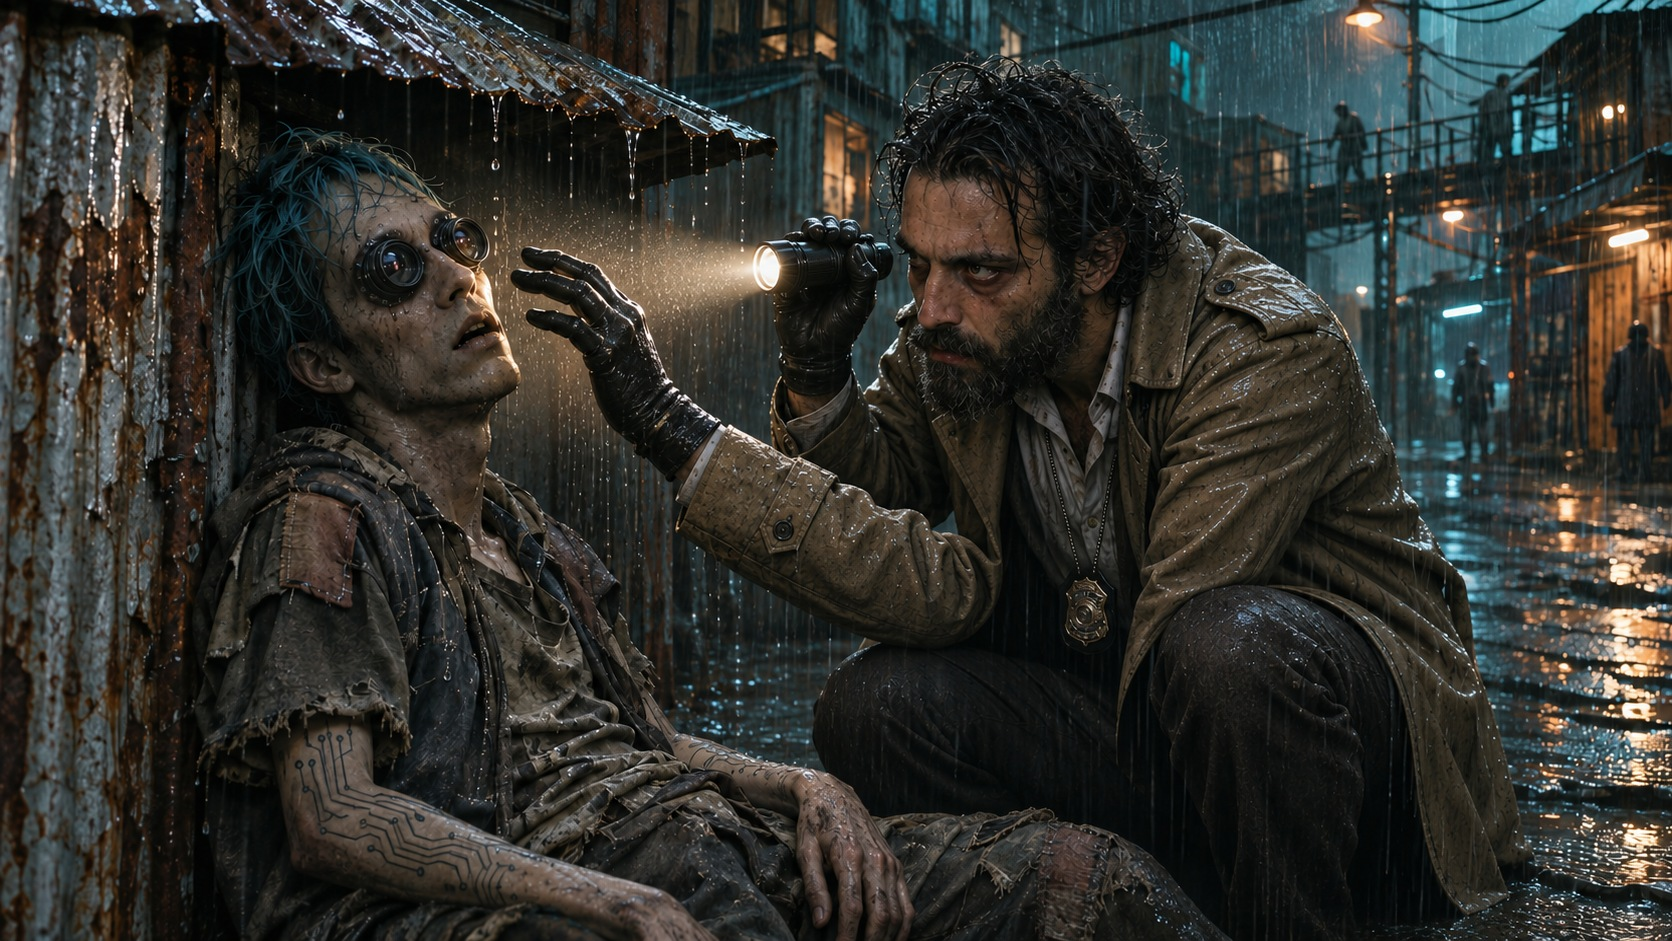
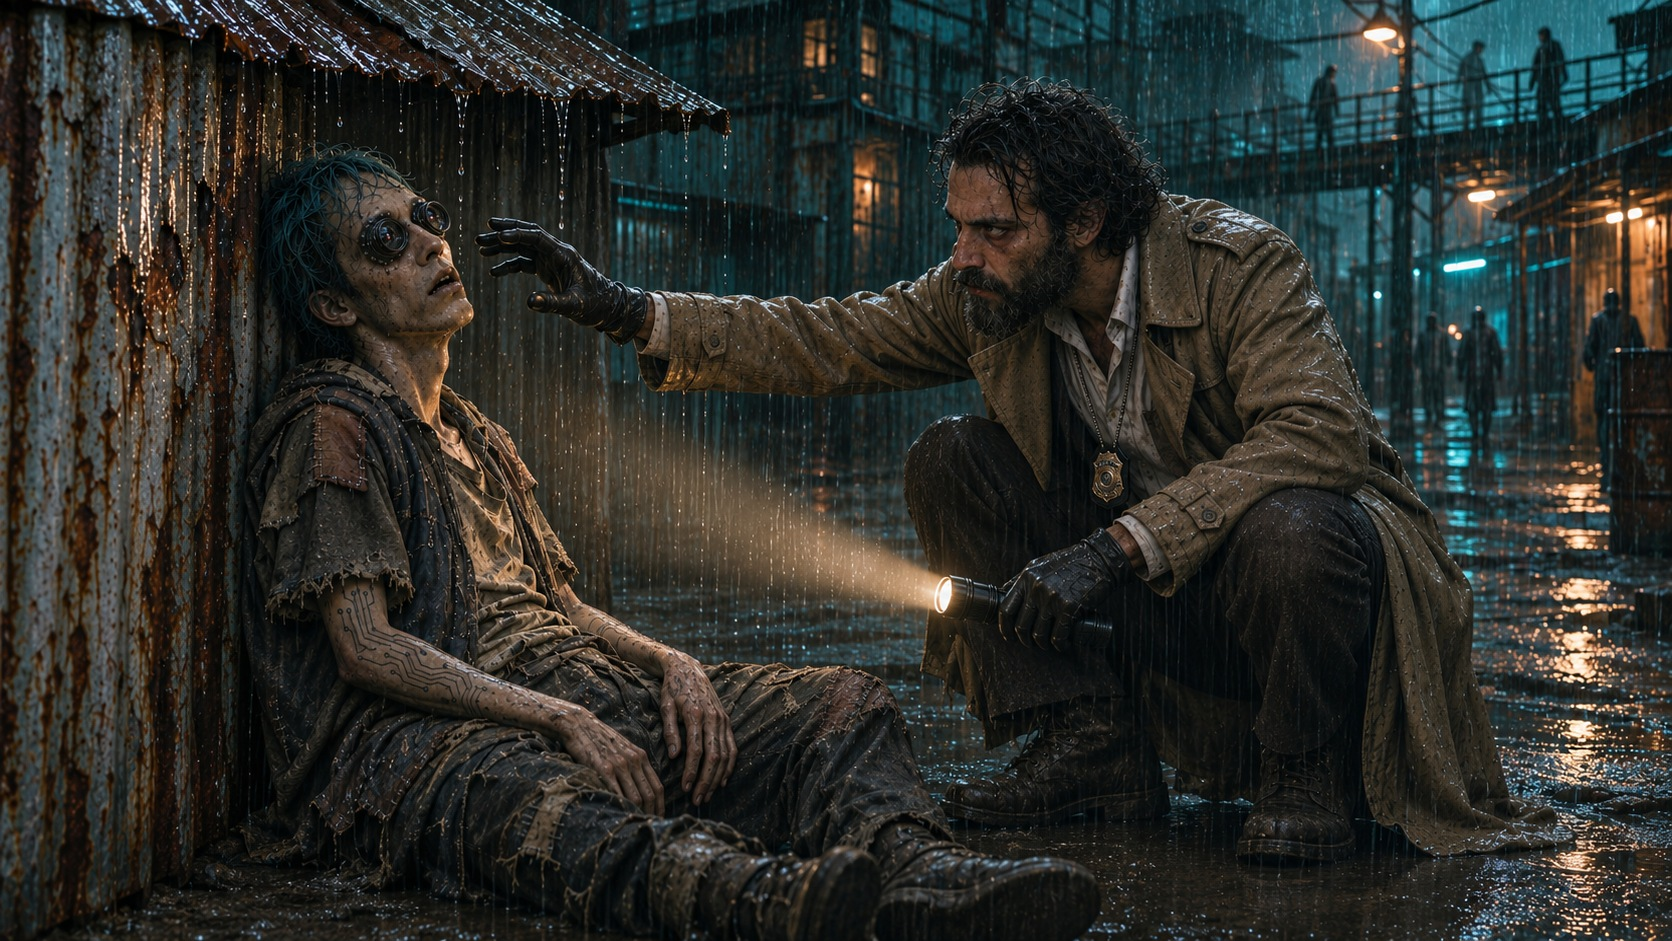
Fix limb anatomy in chapter one still

diff --git a/AGENTS.md b/AGENTS.md
@@ -145,7 +145,7 @@ Lint: none configured in the repo (no linter config at the root). Typecheck: onl
 11. **Nenhuma imagem entra sem homologação.** `python scripts/homologar_cenas.py --realimentar`
     mede resolução, nitidez, contraste, arquivo chapado, texto queimado e cena repetida, escreve
     `docs/qualidade_imagens.md` e devolve as reprovadas para `docs/public/cenas/regerar.txt`.
-    Fidelidade de rosto é auditada com visão (`--visao N`). O ciclo completo está em
+    Amplie a imagem final e rastreie cada mão até o ombro e cada pé até o quadril. Reprove membros soltos, duplicados ou de origem ambígua e revise a pose. A fidelidade de rosto é auditada com visão (`--visao N`). O ciclo completo está em
     `docs/pipeline_imagens.md`.
 12. **Bases de Referência Oficiais e Benchmark Gabo (OBRIGATÓRIO).** Gabo, Bio-Dante, Enzo e
     Sofia **NUNCA** podem ser gerados/recriados sem suas imagens de referência oficiais:
